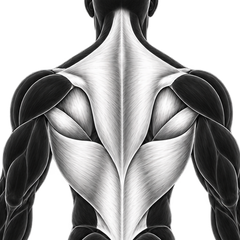
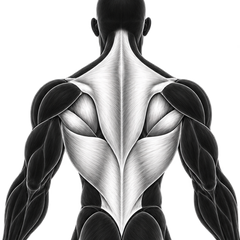
홈 부위별 카드 - 등/하체 썸네일 줌아웃 (v0.9.101) (#581)
등/하체 썸네일이 너무 확대되어 보인다는 요청으로, 크롭 패딩 배율을
늘려서(등 1.1→1.35, 하체 1.15→1.4) 주변 여백을 더 확보 - 다른 3개
부위(가슴/어깨/팔)와 비슷한 정도의 여유를 갖도록 조정.

Claude-Session: https://claude.ai/code/session_01TNoGCWRQtXcfdnQwZ6HvCX

diff --git a/index.html b/index.html
@@ -10400,7 +10400,7 @@ const settingsHeaderName = document.getElementById("settingsHeaderName");
 const settingsHeaderSub = document.getElementById("settingsHeaderSub");
 
 /* ✅ 앱 버전 정의 — 의미 있는 수정/배포마다 올림(설정 화면에서 "최신 버전 받았는지" 확인용) */
-const APP_VERSION = "0.9.100";
+const APP_VERSION = "0.9.101";
 const appVersionDisplay = document.getElementById("appVersionDisplay");
 if (appVersionDisplay) {
   appVersionDisplay.textContent = APP_VERSION;
